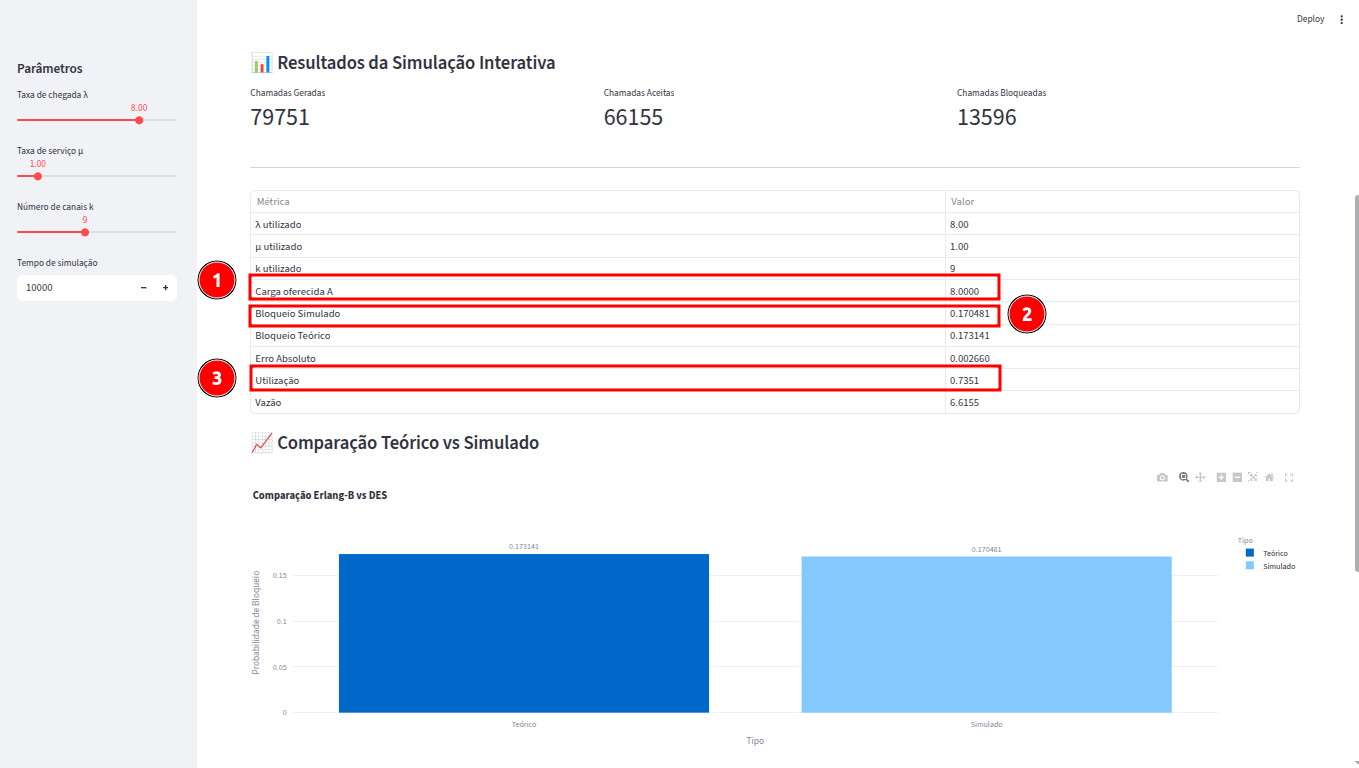
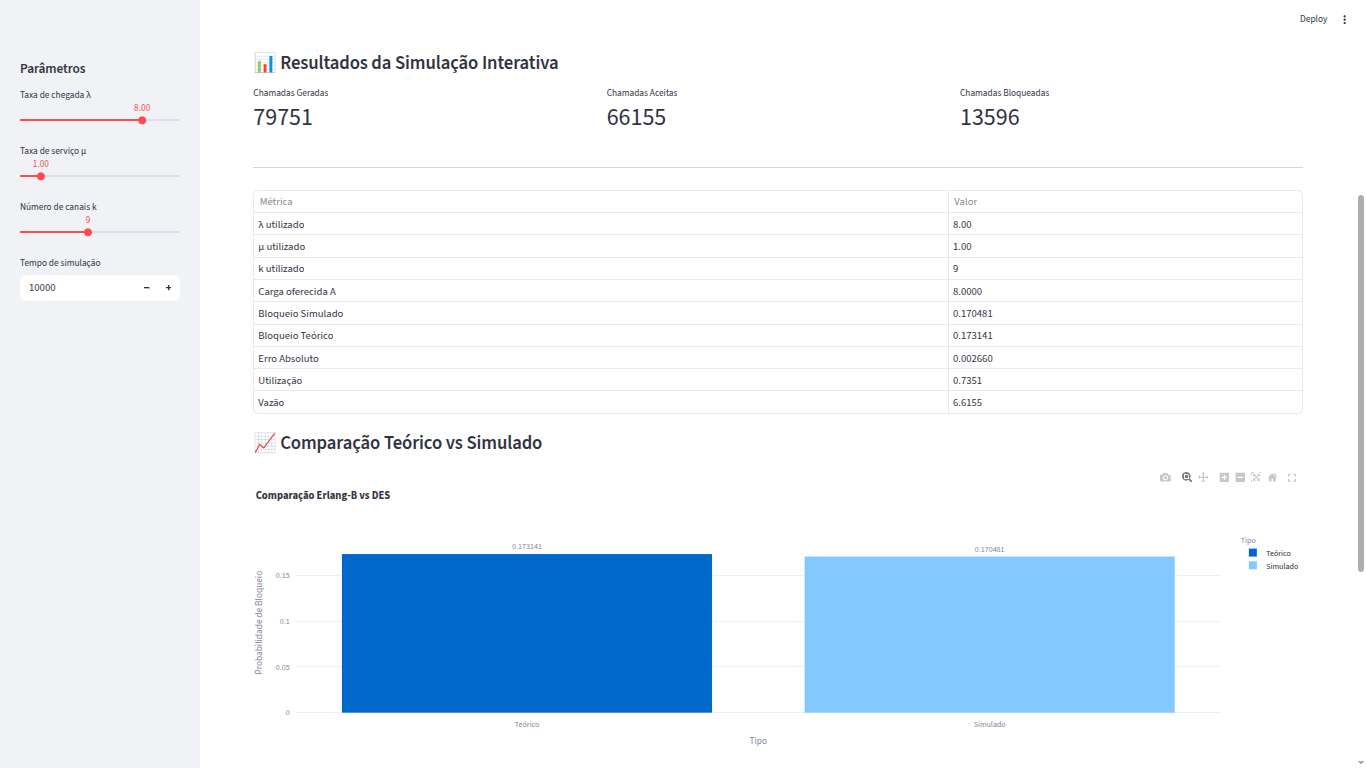
correção imagem 5 e 6 do Readme.md

diff --git a/ads-2026.1/a3.1/Readme.md b/ads-2026.1/a3.1/Readme.md
@@ -268,8 +268,8 @@ Espera-se observar:
 
 Resultado esperado:
 
-1. baixa probabilidade de bloqueio;
-2. baixa utilização dos canais.
+- baixa probabilidade de bloqueio;
+- baixa utilização dos canais.
 
 <p align="center">
   <img src="imagens/image5.png" width="900">
@@ -286,9 +286,9 @@ Resultado esperado:
 | k | 9 |
 
 Resultado esperado:
-1. crescimento da carga oferecida ao sistema.
-2. aumento significativo do bloqueio;
-3. maior utilização dos canais;
+
+- aumento significativo do bloqueio;
+- maior utilização dos canais;
 
 <p align="center">
   <img src="imagens/image6.png" width="900">